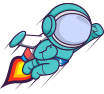
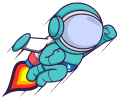
feat: change conetian skin depending on difficulty

Changed region(s): [[0.0, 0.0213, 1.0, 0.9787], [0.4038, 0.8511, 0.4615, 0.8936]]

diff --git a/src/hooks/useConetianHooks.tsx b/src/hooks/useConetianHooks.tsx
@@ -1,0 +1,72 @@
+import { useEffect, useState } from "react";
+import { useFlappyBirdContext } from "../providers/FlappyBirdProvider";
+import { EasyConetianLowFire, EasyConetianMediumFire, EasyConetianHighFire, NormalConetianLowFire, NormalConetianMediumFire, NormalConetianHighFire, HardConetianLowFire, HardConetianMediumFire, HardConetianHighFire } from '../shared/assets';
+
+export const useConetianLowFire = () => {
+  const { gameDifficulty } = useFlappyBirdContext();
+  const [imageSource, setImageSource] = useState<string>(gameDifficulty === 1 ? EasyConetianLowFire : gameDifficulty === 2 ? NormalConetianLowFire : HardConetianLowFire);
+  useEffect(() => {
+    setImageSource(EasyConetianLowFire)
+
+    if (gameDifficulty === 1) {
+      setImageSource(EasyConetianLowFire)
+    }
+
+    if (gameDifficulty === 2) {
+      setImageSource(NormalConetianLowFire)
+    }
+
+    if (gameDifficulty === 3) {
+      setImageSource(HardConetianLowFire)
+    }
+  }, [gameDifficulty])
+
+  return imageSource;
+}
+
+export const useConetianMediumFire = () => {
+  const { gameDifficulty } = useFlappyBirdContext();
+
+  const [imageSource, setImageSource] = useState<string>(gameDifficulty === 1 ? EasyConetianMediumFire : gameDifficulty === 2 ? NormalConetianMediumFire : HardConetianMediumFire);
+
+  useEffect(() => {
+    setImageSource(EasyConetianMediumFire)
+
+    if (gameDifficulty === 1) {
+      setImageSource(EasyConetianMediumFire)
+    }
+
+    if (gameDifficulty === 2) {
+      setImageSource(NormalConetianMediumFire)
+    }
+
+    if (gameDifficulty === 3) {
+      setImageSource(HardConetianMediumFire)
+    }
+  }, [gameDifficulty])
+
+  return imageSource;
+}
+
+export const useConetianHighFire = () => {
+  const { gameDifficulty } = useFlappyBirdContext();
+
+  const [imageSource, setImageSource] = useState<string>(gameDifficulty === 1 ? EasyConetianHighFire : gameDifficulty === 2 ? NormalConetianHighFire : HardConetianHighFire);
+  useEffect(() => {
+    setImageSource(EasyConetianHighFire)
+
+    if (gameDifficulty === 1) {
+      setImageSource(EasyConetianHighFire)
+    }
+
+    if (gameDifficulty === 2) {
+      setImageSource(NormalConetianHighFire)
+    }
+
+    if (gameDifficulty === 3) {
+      setImageSource(HardConetianHighFire)
+    }
+  }, [gameDifficulty])
+
+  return imageSource;
+}

diff --git a/src/shared/assets.js b/src/shared/assets.js
@@ -2,17 +2,27 @@ import pipeTopImg from "../assets/toppipe.png";
 import pipeBottomImg from "../assets/botpipe.png";
 import backgroundImage from "../assets/bgx3.png";
 import groundImage from "../assets/basex5.jpg";
-import EasyConetianLowFire from "../assets/easy-conetian-low-fire.png";
-import EasyConetianMediumFire from "../assets/easy-conetian-medium-fire.png";
-import EasyConetianHighFire from "../assets/easy-conetian-high-fire.png";
 import loading from "../assets/logo_conet_rotation.gif";
 import pointer from "../assets/Polygon 4.png";
 import audioImage from "../assets/audio.png";
 import rouletteImg from "../assets/sticker.webm";
+import StarImg from "../assets/star.png";
+
 import doubleLose from "../assets/double-lose.png";
 import doubleWin from "../assets/double-win.png";
 import doubleNeutral from "../assets/double-neutral.png";
-import StarImg from "../assets/star.png";
+
+import EasyConetianLowFire from "../assets/easy-conetian-low-fire.png";
+import EasyConetianMediumFire from "../assets/easy-conetian-medium-fire.png";
+import EasyConetianHighFire from "../assets/easy-conetian-high-fire.png";
+
+import NormalConetianLowFire from "../assets/normal-conetian-low-fire.png";
+import NormalConetianMediumFire from "../assets/normal-conetian-medium-fire.png";
+import NormalConetianHighFire from "../assets/normal-conetian-high-fire.png";
+
+import HardConetianLowFire from "../assets/hard-conetian-low-fire.png";
+import HardConetianMediumFire from "../assets/hard-conetian-medium-fire.png";
+import HardConetianHighFire from "../assets/hard-conetian-high-fire.png";
 
 import BackgroundAudio from "../assets/GameSounds/BackgroundSound/16-Bit Action.wav";
 import Tap from "../assets/GameSounds/Tap/Pressured Pneumatics Hit.mp3";
@@ -27,9 +37,6 @@ export {
   pipeBottomImg,
   backgroundImage,
   groundImage,
-  EasyConetianLowFire,
-  EasyConetianMediumFire,
-  EasyConetianHighFire,
   loading,
   pointer,
   audioImage,
@@ -45,4 +52,13 @@ export {
   doubleLose,
   doubleWin,
   doubleNeutral,
+  EasyConetianLowFire,
+  EasyConetianMediumFire,
+  EasyConetianHighFire,
+  NormalConetianLowFire,
+  NormalConetianMediumFire,
+  NormalConetianHighFire,
+  HardConetianLowFire,
+  HardConetianMediumFire,
+  HardConetianHighFire,
 };

diff --git a/src/components/game/index.tsx b/src/components/game/index.tsx
@@ -4,7 +4,8 @@ import { Tap, BackgroundAudio, ConetianDeath } from '../../shared/assets';
 import { playAudio, stopAudio } from '../../shared/functions';
 import { useAudioPlayer } from 'react-use-audio-player';
 
-import { EasyConetianMediumFire, EasyConetianHighFire, groundImage, backgroundImage, pipeBottomImg, pipeTopImg, } from '../../shared/assets';
+import { useConetianHighFire, useConetianMediumFire } from '../../hooks/useConetianHooks';
+import { groundImage, backgroundImage, pipeBottomImg, pipeTopImg, } from '../../shared/assets';
 import { useFlappyBirdContext } from '../../providers/FlappyBirdProvider';
 
 type Props = {
@@ -14,7 +15,6 @@ type Props = {
   setRoulette: (event: boolean) => void,
 }
 
-
 const Game: React.FC<Props> = ({ setGameStatus, gameStatus, setScores, setRoulette }) => {
 
   const { load } = useAudioPlayer();
@@ -23,6 +23,9 @@ const Game: React.FC<Props> = ({ setGameStatus, gameStatus, setScores, setRoulet
 
   let gameSpeed = gameDifficulty === 2 || gameDifficulty === 1 ? levels.speedLevel1 : levels.speedLevel3;
   let gameFrame = gameDifficulty === 2 || gameDifficulty === 1 ? levels.frameLevel1 : levels.frameLevel3;
+
+  const conetianHighFireImage = useConetianHighFire();
+  const conetianMediumFireImage = useConetianMediumFire();
 
   const canvasRef = useRef<HTMLCanvasElement>(null);
   const [score, setScore] = useState<number>(0);
@@ -77,7 +80,7 @@ const Game: React.FC<Props> = ({ setGameStatus, gameStatus, setScores, setRoulet
     canvas.height = window.innerHeight;
 
     const birdImage = new Image();
-    birdImage.src = EasyConetianHighFire;
+    birdImage.src = conetianHighFireImage;
 
     const pipeTopImage = new Image();
     pipeTopImage.src = pipeTopImg;
@@ -92,7 +95,7 @@ const Game: React.FC<Props> = ({ setGameStatus, gameStatus, setScores, setRoulet
     groundImageObj.src = groundImage;
 
     const birdFlyImg = new Image();
-    birdFlyImg.src = EasyConetianMediumFire;
+    birdFlyImg.src = conetianMediumFireImage;
 
     const birdCanvas = document.createElement('canvas');
     birdCanvas.width = bird.width;

diff --git a/src/components/start/index.tsx b/src/components/start/index.tsx
@@ -1,6 +1,6 @@
 import React, { useEffect, useState } from 'react';
 import { useFlappyBirdContext } from '../../providers/FlappyBirdProvider';
-import { EasyConetianLowFire, EasyConetianMediumFire, EasyConetianHighFire } from '../../shared/assets';
+import { useConetianHighFire, useConetianLowFire, useConetianMediumFire } from '../../hooks/useConetianHooks';
 import { loading } from '../../shared/assets';
 import { audioImage } from '../../shared/assets';
 
@@ -16,10 +16,13 @@ const StartMessage: React.FC = () => {
     width: "240px"
   }
 
-
   const { setPath, walletAddress, setGameStatus, miningError, miningRate, onlineMiners, mining, audio, setAudio } = useFlappyBirdContext();
 
   const [bird, setBird] = useState<number>(0);
+
+  const conetianHighFireImage = useConetianHighFire();
+  const conetianMediumFireImage = useConetianMediumFire();
+  const conetianLowFireImage = useConetianLowFire();
 
   useEffect(() => {
     const init = setInterval(() => {
@@ -64,7 +67,7 @@ const StartMessage: React.FC = () => {
 
       <div style={{ display: "flex", flexDirection: "column", justifyContent: "center", alignItems: "center", height: "100%", gap: "30px" }}>
         <h1 style={{ color: "white", fontFamily: "FlappyBird", fontSize: "3rem", margin: 0 }}>The CoNETian</h1>
-        <img src={bird % 3 === 0 ? EasyConetianHighFire : bird % 3 === 1 ? EasyConetianLowFire : EasyConetianMediumFire} />
+        <img src={bird % 3 === 0 ? conetianHighFireImage : bird % 3 === 1 ? conetianLowFireImage : conetianMediumFireImage} width={120} />
 
         <div style={{ display: "flex", flexDirection: "column", justifyContent: "center", alignItems: "center", gap: "16px" }}>
           <button style={buttonStyle} className='startButton' onClick={() => { setPath('/start'); setGameStatus(0) }}>Start</button>
